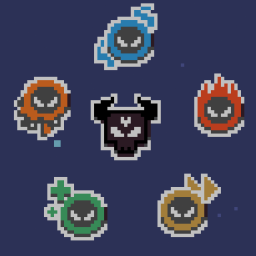
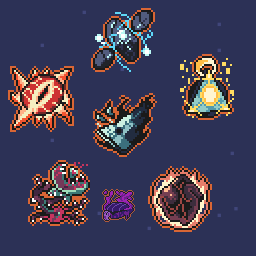
v 1.1.0

diff --git a/CHANGELOG.md b/CHANGELOG.md
@@ -1,2 +1,7 @@
+## 1.1.0
+* Huge thanks to DigBug for creating all of the custom sprites
+* added custom sprites for all elite aspects, including the ssr poison aspect
+* some fixes for game version 1.1.0
+
 ## 1.0.0
 * Initial Release

diff --git a/README.md b/README.md
@@ -4,6 +4,7 @@
 - Compatible with some modded elites. Has to be turned on individually
 
 ## Special Thanks To
+* Huge thanks to DigBug who created all the sprites
 * The Return Of Modding Discord
 
 ## Contact
